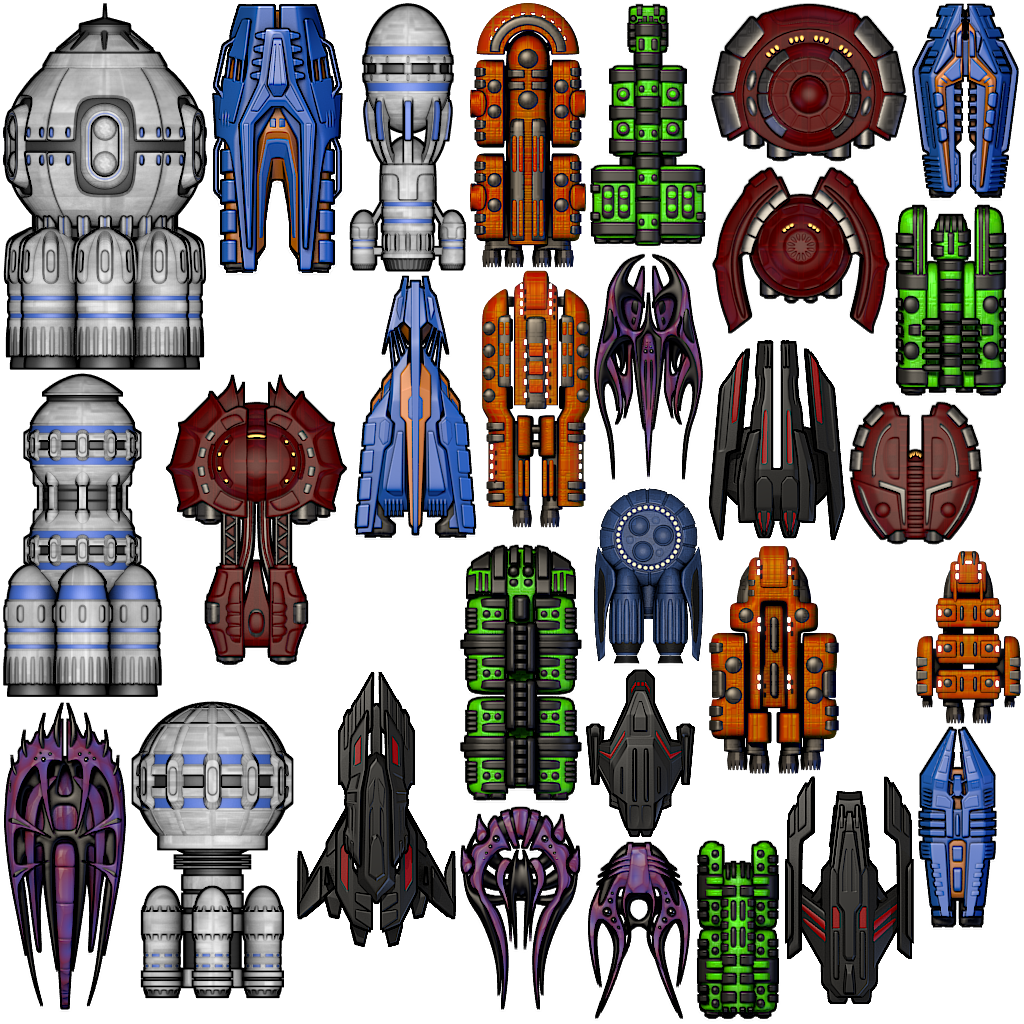
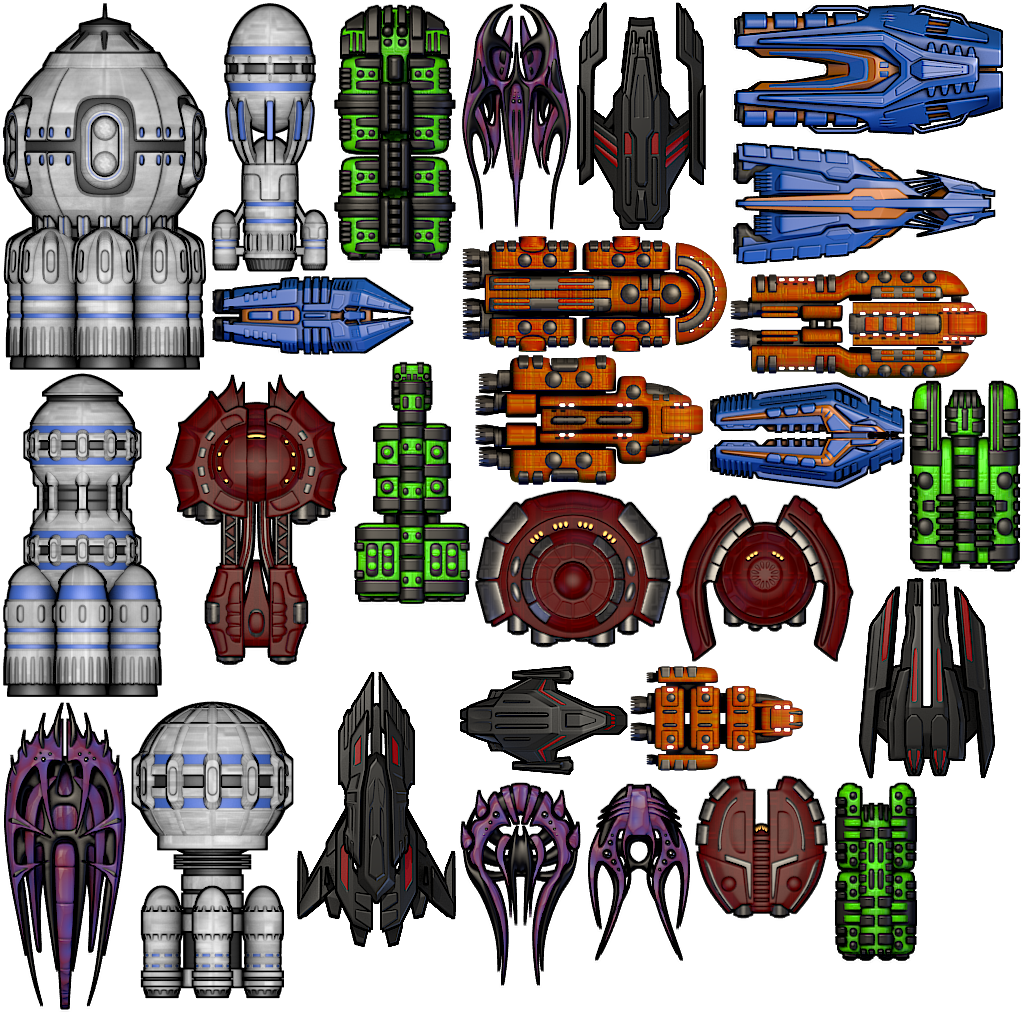
Physics, basic movement, etc.

diff --git a/experimentation/two/game/states/GameRound.js b/experimentation/two/game/states/GameRound.js
@@ -21,31 +21,63 @@ SpaceRPG.GameRound = function (game) {
 
     //  You can use any of these from any function within this State.
     //  But do consider them as being 'reserved words', i.e. don't create a property for your own game called "world" or you'll over-write the world reference.
-
 };
 
 SpaceRPG.GameRound.prototype = {
 
-  create: function () {
-
-    //  Honestly, just about anything could go here. It's YOUR game after all. Eat your heart out!
+  preload: function() {
 
   },
 
+  create: function() {
+    this.add.tileSprite(0, 0, 2000, 2000, 'F5S2.png');
+    this.physics = new SpaceRPG.Physics();
+    this.world.setBounds(0, 0, 1400, 1400);
+
+    player = this.createShip('basic');
+
+    this.camera.follow(player, Phaser.Camera.FOLLOW_TOPDOWN);
+    this.camera.deadzone = Phaser.Rectangle(-150, -150, 150, 150);
+  },
+
   update: function () {
+    if (this.input.mousePointer.isDown) {
+      console.log('setting');
+      var angle = this.physics.angleToPointer(player, this.input.mousePointer);
 
-    //  Honestly, just about anything could go here. It's YOUR game after all. Eat your heart out!
+      var rotate = 0;
+      var diff = angle - player.rotation;
 
+      if (Math.abs(diff) >= Math.PI) {
+        diff *= -1;
+      }
+
+      player.body.torque = diff;
+    } else {
+      player.body.torque = 0;
+    }
+  },
+
+  render: function() {
+    // Rama.game.debug.cameraInfo(this.camera, 32, 32);
+    Rama.game.debug.spriteCoords(player, 32, 32);
+    Rama.game.debug.text("Torque: " + player.body.torque, 32, 100);
+    Rama.game.debug.text("Angle: " + Phaser.Point.angle(this.input.mousePointer, player.position), 32, 120);
+    Rama.game.debug.text("VR: " + player.body.vr, 32, 140);
+  },
+
+  createShip: function(hull) {
+    var hullConfig = this.cache.getJSON('hullConfig');
+    var ship = this.add.sprite(260, 260, 'ships', hullConfig[hull].sprite);
+
+    ship.anchor.x = ship.anchor.y = 0.5;
+
+    this.physics.enable(ship);
+
+    return ship;
   },
 
   quitGame: function (pointer) {
 
-    //  Here you should destroy anything you no longer need.
-    //  Stop music, delete sprites, purge caches, free resources, all that good stuff.
-
-    //  Then let's go back to the main menu.
-    this.state.start('MainMenu');
-
   }
-
 };

diff --git a/experimentation/two/game/physics/physics.js b/experimentation/two/game/physics/physics.js
@@ -1,0 +1,76 @@
+SpaceRPG.Physics = function() {
+  this.bodies = [];
+};
+
+SpaceRPG.Physics.prototype = {
+  enable: function(object, mass) {
+    if (object.hasOwnProperty('body') && object.body === null) {
+      object.body = new SpaceRPG.Physics.Body(object);
+      this.bodies.push(object);
+    }
+  },
+
+  /**
+  * Find the angle in radians between a display object (like a Sprite) and a Pointer, taking their x/y and center into account.
+  *
+  * @method Phaser.Physics.Arcade#angleToPointer
+  * @param {any} displayObject - The Display Object to test from.
+  * @param {Phaser.Pointer} [pointer] - The Phaser.Pointer to test to. If none is given then Input.activePointer is used.
+  * @return {number} The angle in radians between displayObject.x/y to Pointer.x/y
+  */
+  angleToPointer: function (displayObject, pointer) {
+
+    pointer = pointer || this.game.input.activePointer;
+
+    this._dx = pointer.worldX - displayObject.x;
+    this._dy = pointer.worldY - displayObject.y;
+
+    return Math.atan2(this._dy, this._dx);
+  }
+};
+
+SpaceRPG.Physics.prototype.constructor = SpaceRPG.Physics;
+
+SpaceRPG.Physics.Body = function(object) {
+  this.mass   = 1;
+  this.force  = 0;
+  this.speed  = 50;
+
+   // Angular velocity
+  this.vr     = 0;
+  this.vrMax  = 5;
+  this.torque = 0;
+  this.rFriction = 0.99;
+
+  this.vector = new Phaser.Point(1, 1);
+  this.object = object;
+};
+
+SpaceRPG.Physics.Body.prototype = {
+  preUpdate: function() {
+    var delta = this.object.game.time.elapsed / 1000;
+
+    this.vr += this.torque/this.mass;
+
+    // Update rotation based on angular velocity.
+    this.vr = Math.max(Math.min(this.vr, this.vrMax), -this.vrMax);
+
+    this.object.rotation += this.vr * delta;
+
+    if (this.object.rotation >= Math.PI) {
+      this.object.rotation -= Math.PI * 2;
+    } else if (this.object.rotation <= -Math.PI) {
+      this.object.rotation += Math.PI * 2;
+    }
+
+    // Update vector.
+    this.vector.rotate(0, 0, this.object.rotation);
+
+    this.object.position.x += this.speed * this.vector.x * delta;
+    this.object.position.y += this.speed * this.vector.y * delta;
+  },
+
+  postUpdate: function() {}
+};
+
+SpaceRPG.Physics.Body.prototype.constructor = SpaceRPG.Physics.Body;

diff --git a/experimentation/two/game/states/Preloader.js b/experimentation/two/game/states/Preloader.js
@@ -9,11 +9,22 @@ SpaceRPG.Preloader = function (game) {
 SpaceRPG.Preloader.prototype = {
 
   preload: function () {
-    var test = this.cache.getJSON('preloadFiles');
-    var atlas = test.atlasJSONHash;
+    var preloadConfig = this.cache.getJSON('preloadFiles');
+    var atlases = preloadConfig.atlasJSONHash;
+    var json = preloadConfig.json;
+    var scripts = preloadConfig.scripts;
+    var i;
 
-    for (var i = atlas.length - 1; i >= 0; i--) {
-      this.load.atlasJSONHash(atlas[i].id, atlas[i].url, atlas[i].json);
+    for (i = 0; i < atlases.length; i++) {
+      this.load.atlasJSONHash(atlases[i].key, atlases[i].url, atlases[i].json);
+    }
+
+    for (i = 0; i < json.length; i++) {
+      this.load.json(json[i].key, json[i].url);
+    }
+
+    for (i = 0; i < scripts.length; i++) {
+      this.load.script(scripts[i].key, scripts[i].url);
     }
   },
 

diff --git a/experimentation/two/rama/rama.js b/experimentation/two/rama/rama.js
@@ -37,4 +37,6 @@ Rama.startGame = function(config) {
   }
 
   game.state.start(config.initState);
+
+  Rama.game = game;
 };
